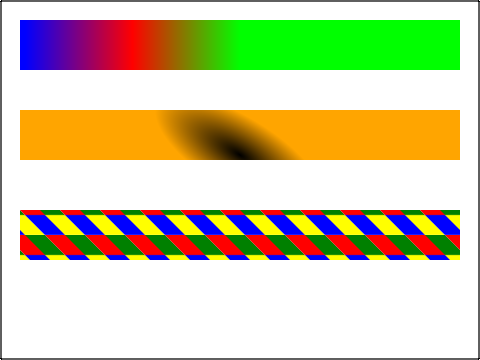
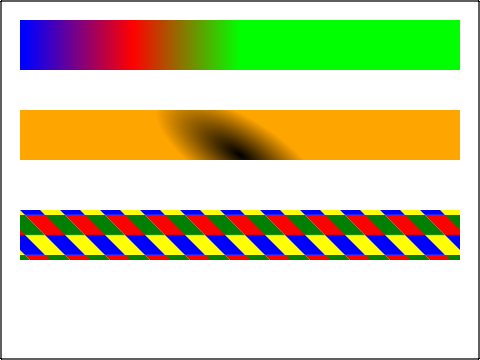
Bug #: 5361 Submitted by: Julien Palmas <julien.palmas@gmail.com> Reviewed by: eseidel         Finally fix pattern "userspaceonuse" support.         Several test cases already cover this.         http://bugzilla.opendarwin.org/show_bug.cgi?id=5361
* kcanvas/device/quartz/KRenderingPaintServerQuartz.mm:
        (KRenderingPaintServerPatternQuartz::draw):
        * svg-tests/W3C-SVG-1.1/pservers-grad-03-b-expected.checksum:
        * svg-tests/W3C-SVG-1.1/pservers-grad-03-b-expected.png:
        * svg-tests/W3C-SVG-1.1/pservers-grad-06-b-expected.checksum:
        * svg-tests/W3C-SVG-1.1/pservers-grad-06-b-expected.png:
        * svg-tests/W3C-SVG-1.1/pservers-pattern-01-b-expected.checksum:
        * svg-tests/W3C-SVG-1.1/pservers-pattern-01-b-expected.png:

git-svn-id: https://svn.webkit.org/repository/webkit/trunk@10925 268f45cc-cd09-0410-ab3c-d52691b4dbfc

Changed region(s): [[0.0312, 0.5806, 0.9688, 0.7333]]

diff --git a/WebCore/kcanvas/device/quartz/KRenderingPaintServerQuartz.mm b/WebCore/kcanvas/device/quartz/KRenderingPaintServerQuartz.mm
@@ -106,15 +106,10 @@ void KRenderingPaintServerPatternQuartz::draw(KRenderingDeviceContext *rendering
 	// Patterns don't seem to resepect the CTM unless we make them...
 	CGAffineTransform ctm = CGContextGetCTM(context);
 	CGAffineTransform transform = CGAffineTransform(patternTransform().qmatrix());
-	CGSize phase = CGSizeMake(x(), y());
-	if (boundingBoxMode()) {
-		// get the object bbox
-		CGRect objectBBox = CGContextGetPathBoundingBox(context);
-		phase.width += objectBBox.origin.x;
-		phase.height += objectBBox.origin.y;
-	}
-	transform = CGAffineTransformTranslate(transform, phase.width, phase.height);
 	transform = CGAffineTransformConcat(transform, ctm);
+    
+    CGSize phase = CGSizeMake(x(), y());
+    CGContextSetPatternPhase(context, phase);
 		
 	CGPatternCallbacks callbacks = {0, patternCallback, NULL};
 	CGPatternRef pattern = CGPatternCreate (
@@ -130,19 +125,6 @@ void KRenderingPaintServerPatternQuartz::draw(KRenderingDeviceContext *rendering
 	applyStyleToContext(context, style); // or do I set the alpha above?
 	
 	CGColorSpaceRef patternSpace = CGColorSpaceCreatePattern(NULL);
-	
-	
-//	CGSize phase = CGSizeMake(x(), y());
-//	if (boundingBoxMode()) {
-//		// get the object bbox
-//		CGRect objectBBox = CGContextGetPathBoundingBox(context);
-//		phase.width += objectBBox.origin.x;
-//		phase.height += objectBBox.origin.y;
-//	}
-	//CGContextSetPatternPhase(context, phase);
-	CGContextSetPatternPhase(context, CGSizeZero); // FIXME: this might be right... might not.
-	
-	//NSLog(@"pattern phase: %f, %f transform: %@", phase.width, phase.height, CFStringFromCGAffineTransform(transform));
 	
 	if ( (type & APPLY_TO_FILL) && style->isFilled() ) {
 		CGContextSetFillColorSpace(context, patternSpace);
